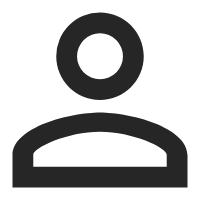
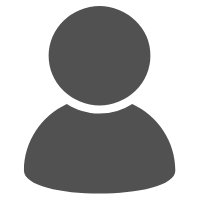
change the style of tabs

diff --git a/src/custom-tab-bar/index.js b/src/custom-tab-bar/index.js
@@ -14,12 +14,12 @@ Component({
     close_style: {},
     icon: [
       '/static/tabs/home.png',
-      '/static/images/user.png',
+      '/static/tabs/pluse.png',
       '/static/tabs/account.png'
     ],
     icon_selected: [
       '/static/tabs/home-active.png',
-      '/static/images/user.png',
+      '/static/tabs/pluse.png',
       '/static/tabs/account-active.png'
     ]
   },
